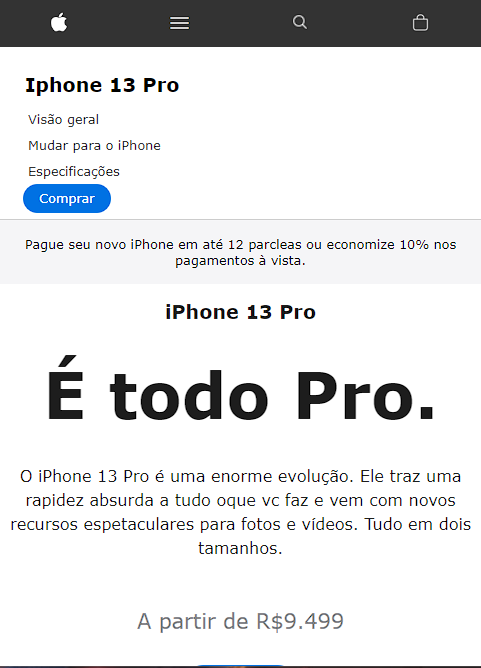
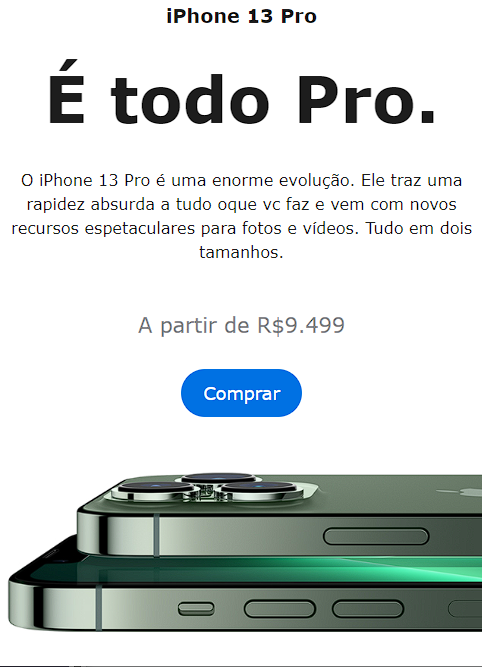
up

diff --git a/pags02/mqpag2.css b/pags02/mqpag2.css
@@ -2,31 +2,10 @@
 
 @media screen and (min-width:320px) and (max-width:500px){
     div#imagem
-    {width: 800px;
+    {width: 400px;
     height: 500px;
     position: relative;}
-
-    img
-    {width: 100%;
-    height: 100%;
-    display: block;
-    margin: auto;}
-
-    div#descrição
-    {position: absolute;
-    top: 0%;
-    left: 0%;
-    width: 100%;
-    height: 100%;
-    background:rgba(0, 0, 0, 0.822);
-    display:flex;
-    justify-content: center;
-    align-items: center;
-    flex-direction:column;
-    opacity: 0;
-    transition:0.6s;}
-
-    
+ 
     div#descrição > h1
     {color:white;
     font-size: 2em;}
@@ -38,10 +17,13 @@
     div#descrição >p
     {color: white;
     display: flex;
-    padding: 20px;
+    padding: 10px;
     font-size: 1em;}
-    
+
     div#descrição img
-    {padding: 0px 20px;
-    height: 50px;}
+    {padding: 5px 10px;}
+
+    section#botoes
+    {gap: 20px;
+    flex-direction:column;}
 }

diff --git a/pags02/projetro.iphone2.html b/pags02/projetro.iphone2.html
@@ -18,7 +18,10 @@
     
     <main>
             <div id="imagem">
-                <img src="../imagem/projeto-iphone-800x500.png" alt="">
+                <picture>
+                    <source media="(max-width:500px )" srcset="../imagem/projeto-iphone-400x700.png">
+                    <img src="../imagem/projeto-iphone-800x500.png" alt="">
+                </picture>
                     <div id="descrição">
                         <h1>Projeto iPhone 13 pro</h1>
                         <p>Esse projeto teve o intuito de clonar o site da Apple referente ao iPhone 13 pro, o site em questão permite que  usuário altere a cor do aparelho manualmente tendo 5 opções de cores, sendo elas verde prateado, dourado, grafite e azul.</p>

diff --git a/pags02.css b/pags02.css
@@ -65,6 +65,7 @@ position: relative;}
 
 img
 {width: 100%;
+height: 100%;
 display: block;
 margin: auto;}
 
